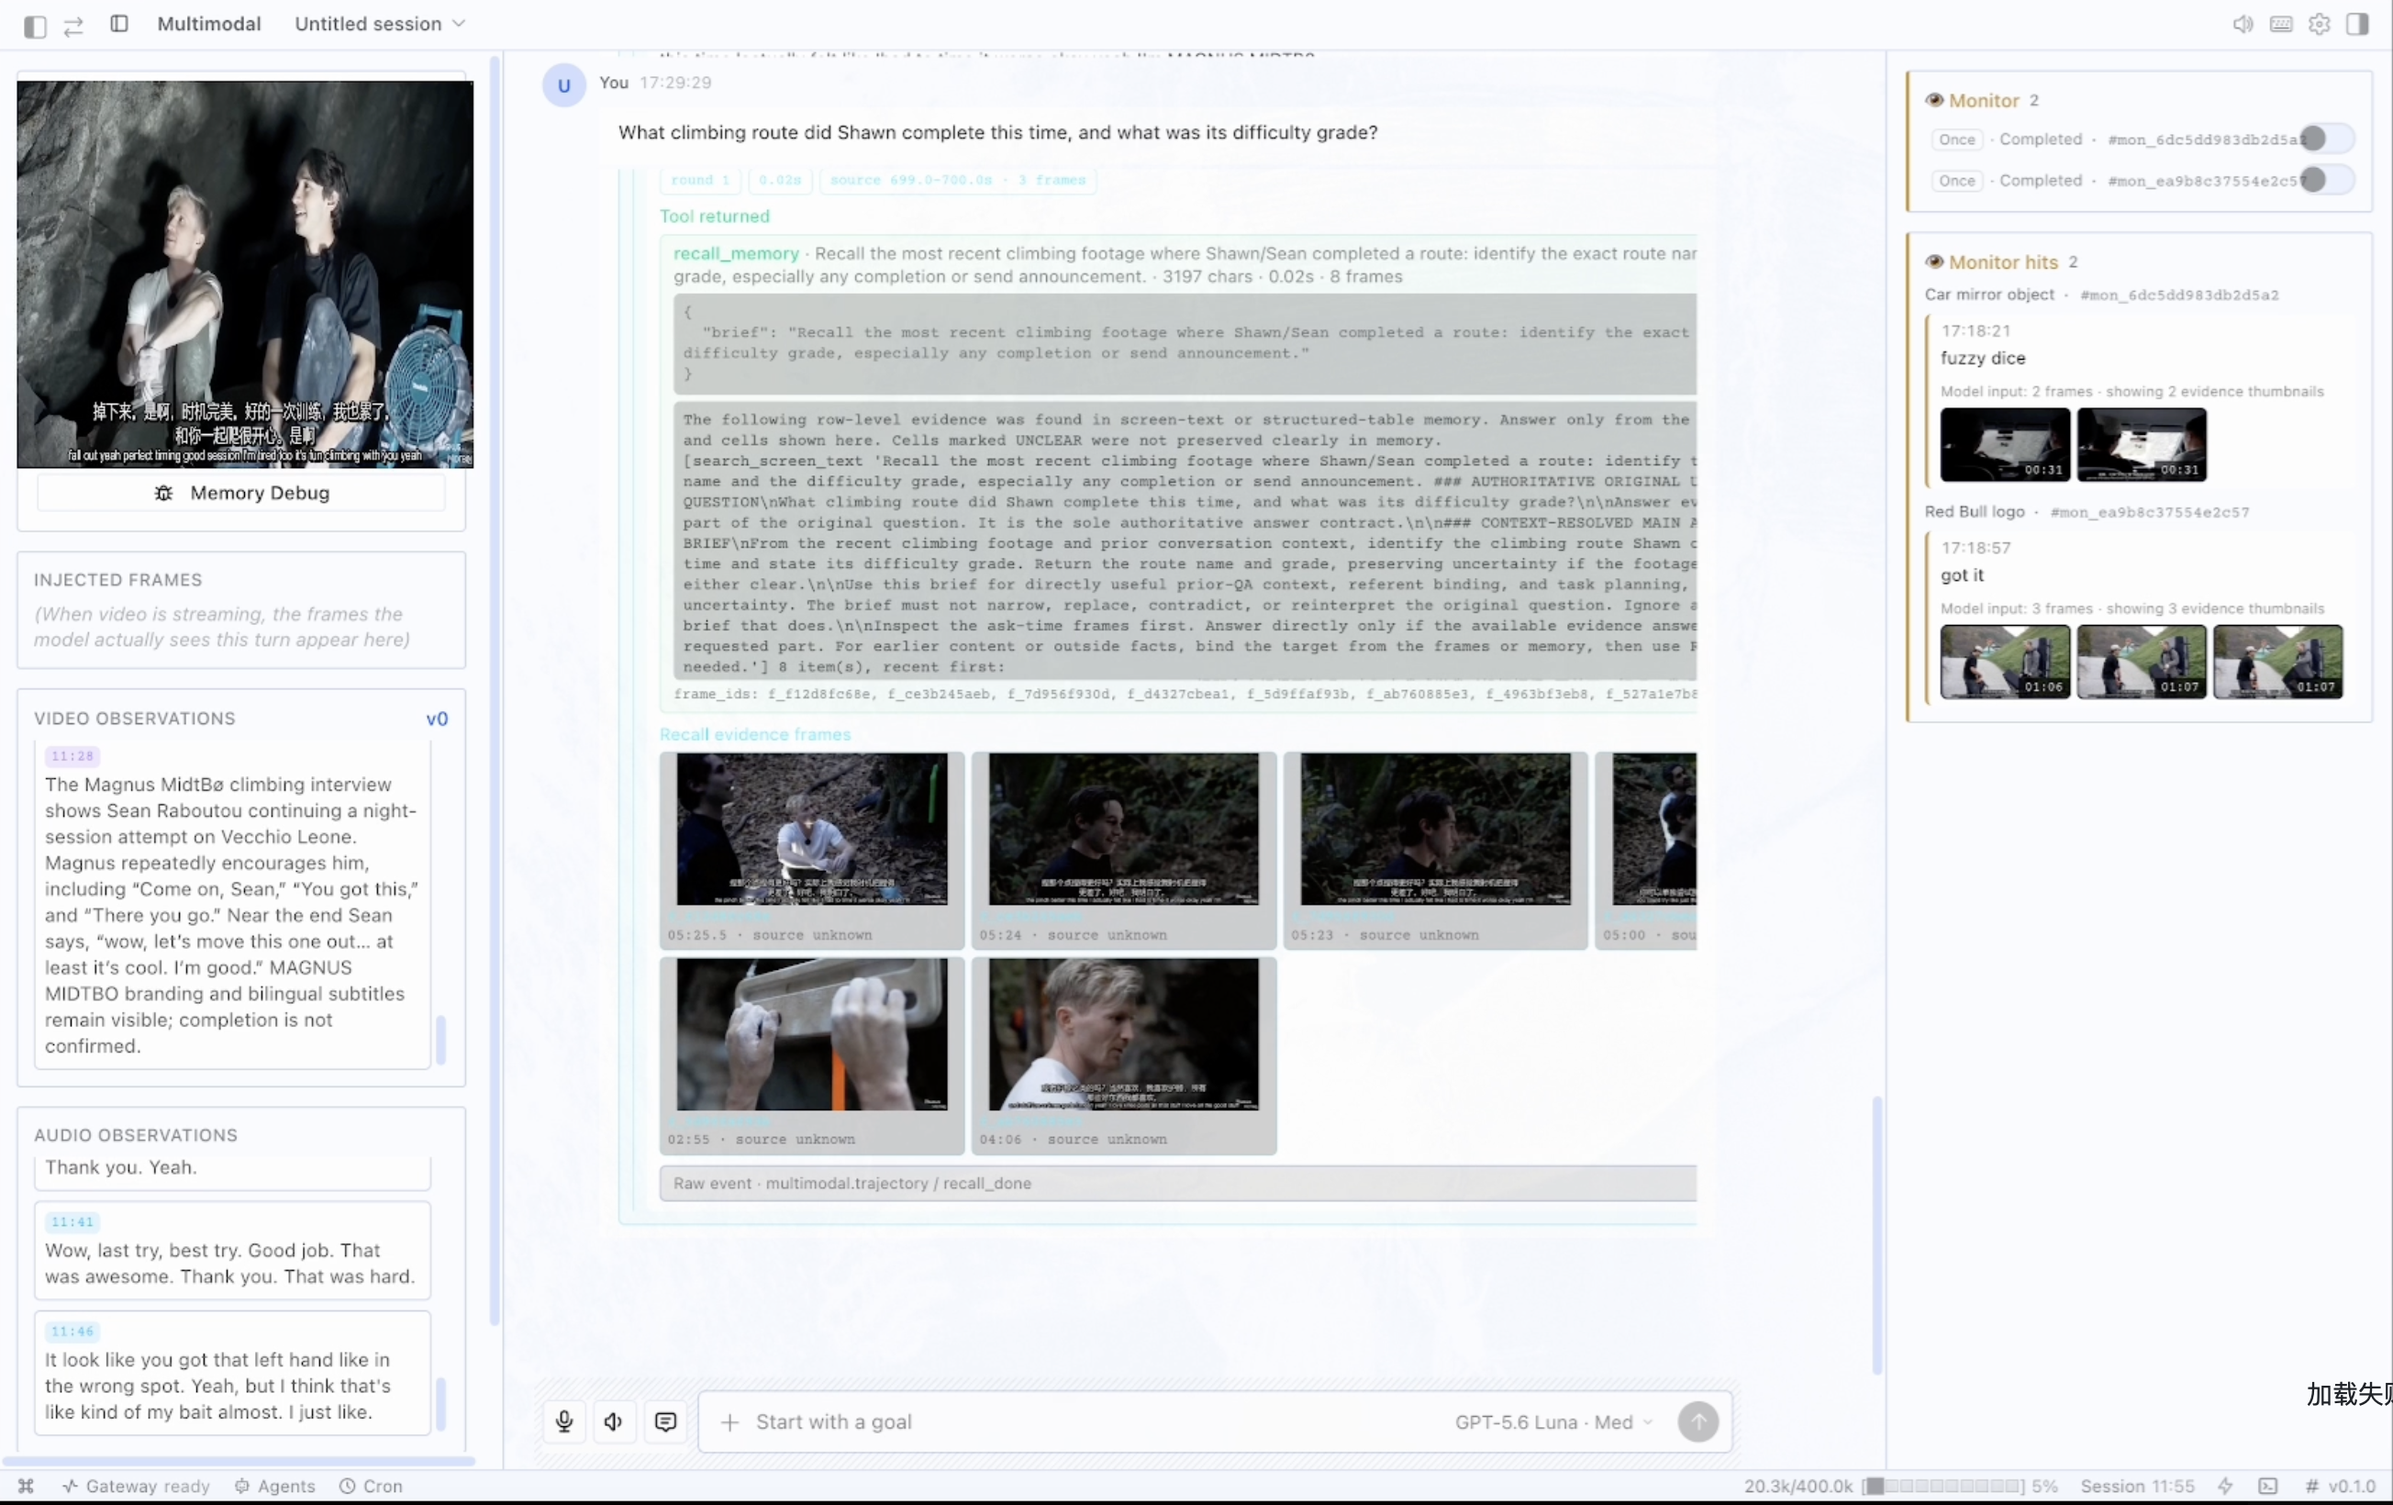
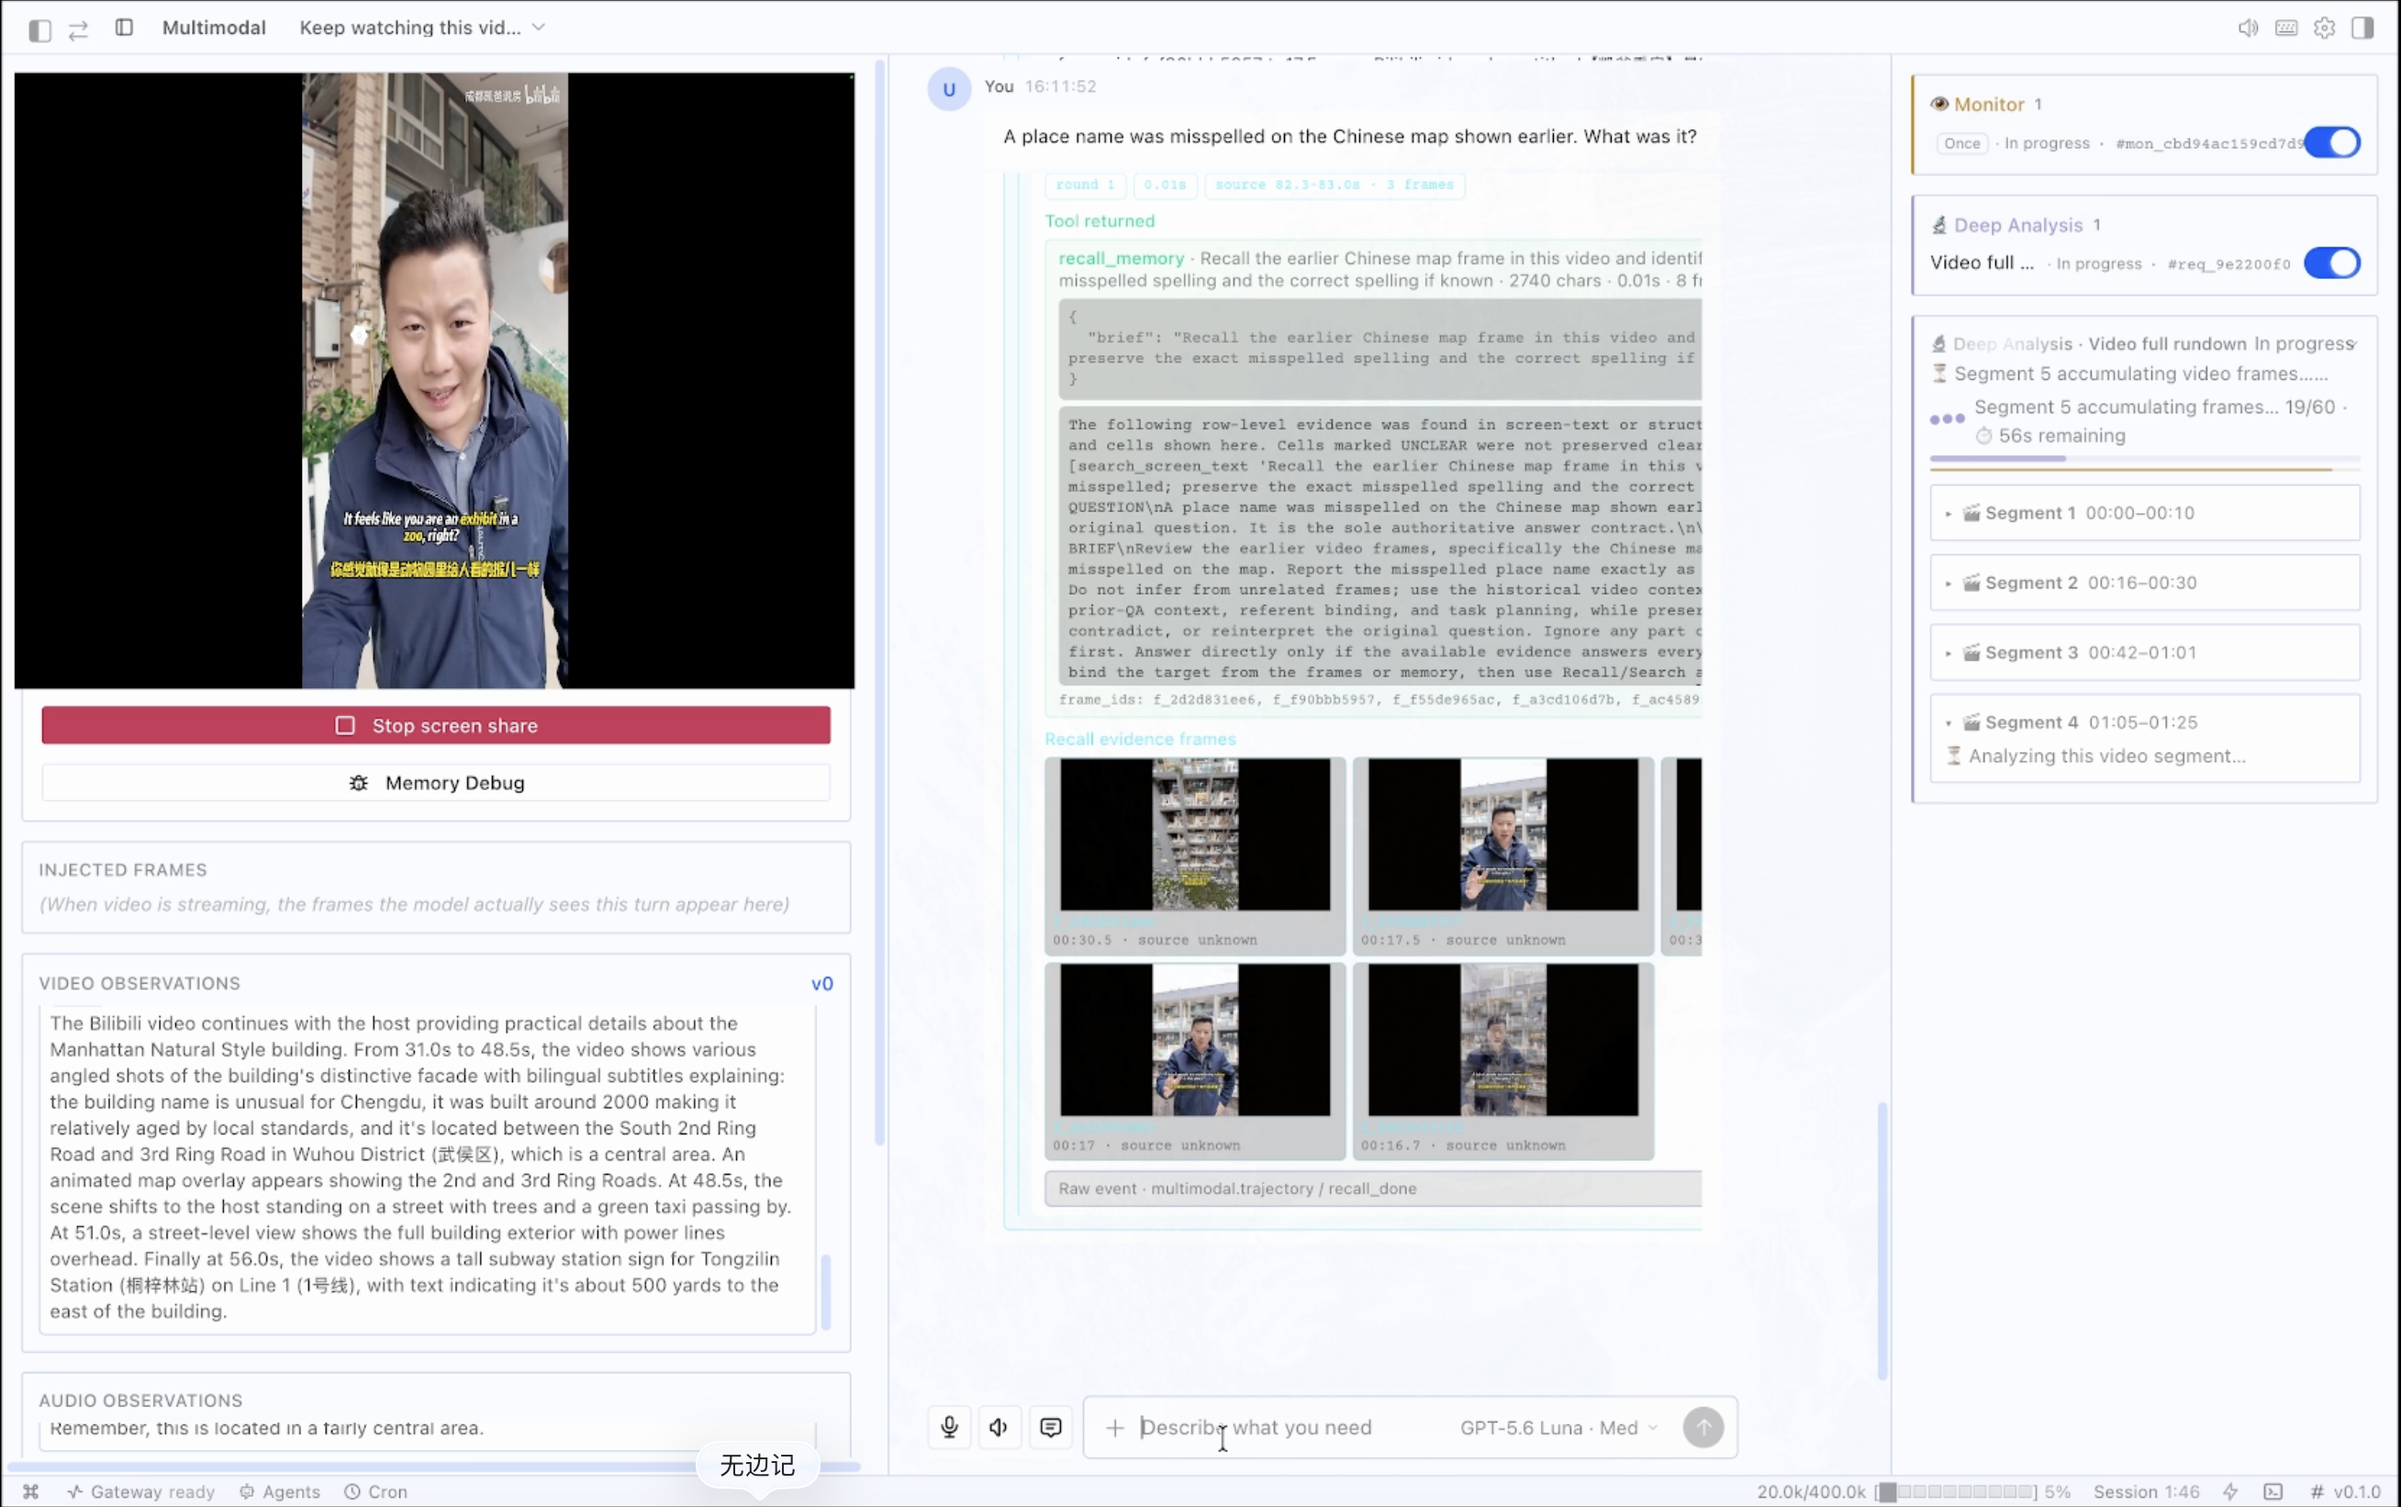
update Demo url

diff --git a/README.md b/README.md
@@ -21,7 +21,7 @@ Live "watch-and-chat" walkthroughs of Argus — screen share a video, ask a ques
 <table>
 <tr>
 <td align="center" width="50%">
-<a href="https://www.youtube.com/watch?v=NhmocdvzQBo">
+<a href="https://www.youtube.com/watch?v=suX31-o6lLM">
   <img src="assets/demo_en.png" alt="English demo preview" width="480"><br/>
   <b>🇬🇧 English demo</b> (click to play)
 </a>
